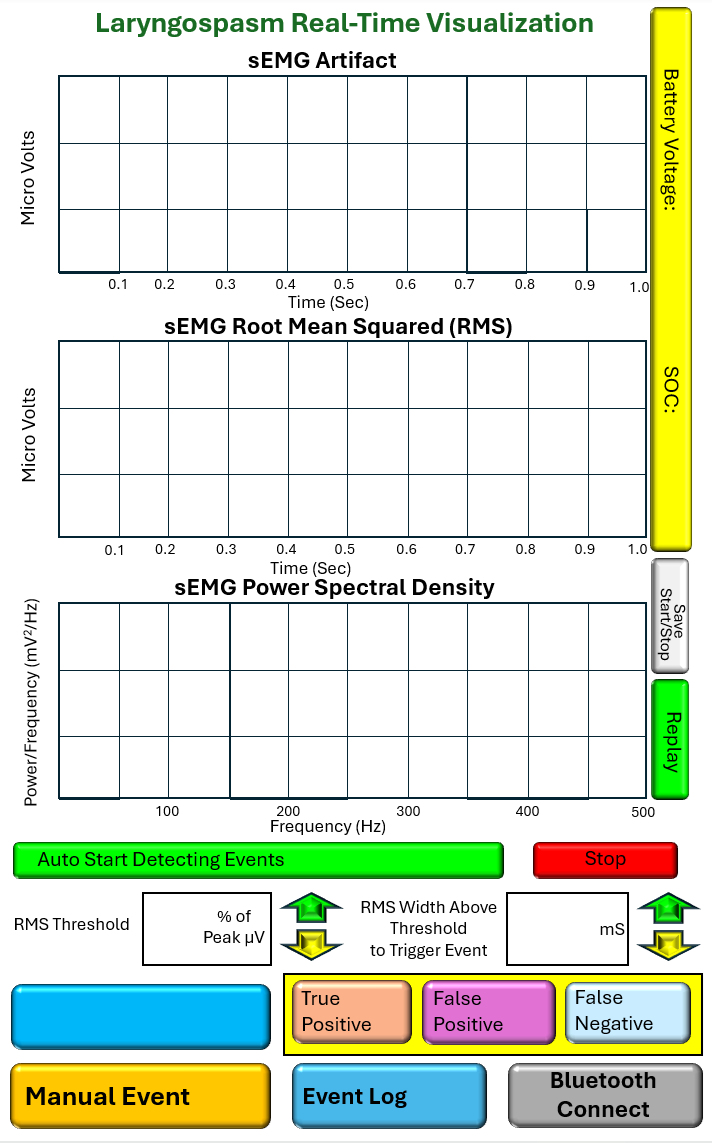
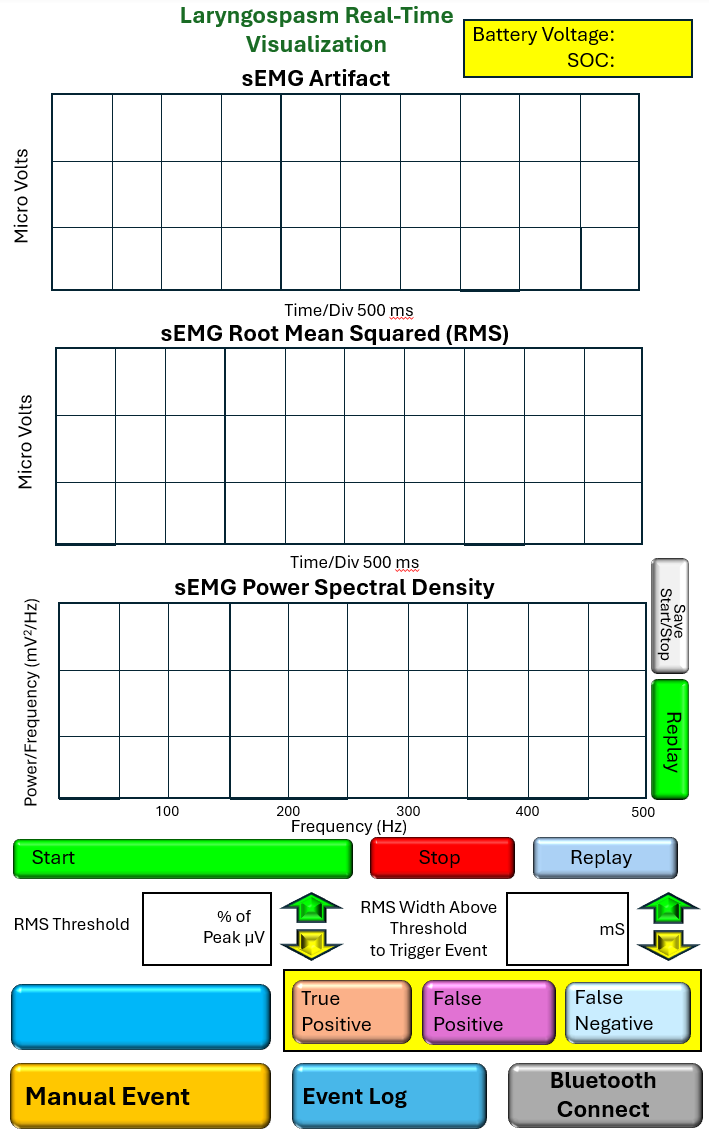
Reorganized GUI. Working On Start/Stop Buttons.

diff --git a/app/src/main/java/com/esark/gasp/GameScreen.java b/app/src/main/java/com/esark/gasp/GameScreen.java
@@ -104,6 +104,7 @@ public class GameScreen extends Screen implements Input {
     private static List<Double> replayList = new ArrayList<>();
     private static int replayPosition = 0;
     private String fileName = "sEMG_Data.csv";
+    private String fileNameLoop = "sEMG_data_loop.csv";
     // signalBufferLen is 1435.// We draw (1435 - 1) line segments. Each segment needs 4 floats (x1, y1, x2, y2).
     private final float[] lineBuffer = new float[(signalBufferLen - 1) * 4];
     // Initialize the Paint object
@@ -177,17 +178,70 @@ public class GameScreen extends Screen implements Input {
         for (int i = 0; i < len; i++) {
             TouchEvent event = touchEvents.get(i);
             if (event.type == TouchEvent.TOUCH_DRAGGED || event.type == TouchEvent.TOUCH_DOWN) {
-                if (event.x > 1245 && event.x < 1715 && event.y > 2610 && event.y < 2710) {
-                    //Back to Bluetooth Connect Screen
+                if (event.x > 1245 && event.x < 1715 && event.y > 2535 && event.y < 2735) {
+                    //Back to Bluetooth Connect Screen      //Bluetooth Connect
                     Intent intent2 = new Intent(context.getApplicationContext(), GaspSemg.class);
                     context.startActivity(intent2);
                     return;
                 }
-                //Start Recording Buttono
+                //////////////////// Start Recording Buttono (Green Button) ////////////////////////////////////////////////
                 else if (event.x > 45 && event.x < 1240 && event.y > 1240 && event.y < 2100) {
                     //Start
                     startTimeMillis = System.currentTimeMillis();
                     startRecording = 1;
+
+                    if (!isRecording) {
+                        // --- START ---
+                        synchronized (ramRecordBuffer) {
+                            // Reset the index pointer to start recording at the beginning of the array
+                            ramRecordBufferIdx = 0;
+                        }
+                        isRecording = true;
+                        isReplaying = false;
+                        Log.d("RECORD", "Recording Started");
+                    }
+                }
+                else if (event.x > 910 && event.x < 1265 && event.y > 2000 && event.y < 2100) {
+                    //Stop Recording (Red Button)
+                    //game.setScreen(gameScreenLastEvent);
+                    // eventCount = 0;
+                    // --- STOP ---
+                    startRecording = 0;
+                    isRecording = false; // Stop adding to RAM immediately
+
+                    // Launch the Save Thread
+                    // Inside GameScreen.java Stop logic
+                    new Thread(() -> {
+                        try {
+                            File path = context.getExternalFilesDir(null);
+                            File file = new File(path, fileNameLoop);
+                            PrintWriter pw = new PrintWriter(new BufferedWriter(new OutputStreamWriter(new FileOutputStream(file, false)), 65536));
+
+                            synchronized (ramRecordBuffer) {
+                                for (int k = 0; k < ramRecordBufferIdx; k++) {
+                                    pw.println(ramRecordBuffer[k]);
+                                }
+                                ramRecordBufferIdx = 0; // Reset for next recording
+                            }
+                            pw.flush();
+                            pw.close();
+                        } catch (IOException e) {
+                            e.printStackTrace();
+                        }
+                    }).start();
+                }  /////////////////////// Replay Recording (Blue Button) ///////////////////////////////////////////)///////////////////////////////////////////
+                else if (event.x > 1310 && event.x < 1665 && event.y > 2000 && event.y < 2100) {
+                    if (!isReplaying) {
+                        loadReplayDataLoop(context);
+                        if (!replayList.isEmpty()) {
+                            // Start at 0 to see the wave emerge from the right side
+                            replayPosition = 0;
+                            isReplaying = true;
+                            isRecording = false;
+                        }
+                    } else {
+                        isReplaying = false;
+                    }
                 }
                 //////////////////// Left Up Button ////////////////////////////////////////////////
                 else if (event.x > 685 && event.x < 840 && event.y > 2110 && event.y < 2215) {
@@ -228,11 +282,8 @@ public class GameScreen extends Screen implements Input {
                 } else if (event.x > 720 && event.x < 1190 && event.y > 2600 && event.y < 2700) {
                     //Event Log Screen
                     game.setScreen(gameScreenEventLog);
-                } else if (event.x > 1315 && event.x < 1660 && event.y > 2000 && event.y < 2100) {
-                    //Stop Now clear events
-                    //game.setScreen(gameScreenLastEvent);
-                    eventCount = 0;
-                } else if (event.x > 10 && event.x < 675 && event.y > 2450 && event.y < 2800) {
+                }
+                else if (event.x > 10 && event.x < 675 && event.y > 2450 && event.y < 2800) {
                     //Manual Patient Event
                     if (manualPatientEventUpCount == 0 && eventCount < 50) {
                         // Fast array copy instead of loop
@@ -329,32 +380,8 @@ public class GameScreen extends Screen implements Input {
 
         //   if(landscape == 0) {
 
-        /*
-        g.drawRect(1245, 2610, 470, 100, 0);       //Bluetooth Connect
-        g.drawRect(45, 2000, 1195, 100, 0);       //Start
-        g.drawRect(1315, 2000, 345, 100, 0);       //Stop
-      //  g.drawRect(350, 2185, 250, 85, 0);       //Manual RMS Height Above Threshold Text
-        g.drawText("50", 395, 2235);    //Manual RMS Height Above Threshold Text
-       // g.drawRect(350, 2380, 250, 85, 0);       //Auto RMS Height Threshold Text
-        g.drawText("50", 395, 2445);        //Auto RMS Height Threshold Text
-        g.drawRect(685, 2110, 155, 105, 0);       //Left Up Button
-        g.drawRect(685, 2220, 155, 105, 0);       //Left Down Button
-     //   g.drawRect(1240, 2180, 250, 85, 0);       //Manual RMS Width Above Threshold Text
-        g.drawText("50", 1330, 2235);       //Manual RMS Width Above Threshold Text
-        g.drawRect(1560, 2110, 155, 105, 0);       //Right Up Button
-        g.drawRect(1560, 2220, 155, 105, 0);       //Right Down Button
-        g.drawRect(720, 2600, 470, 100, 0);       //Event Log
-        g.drawRect(25, 2580, 650, 200, 0);       //Manual Patient Event
 
-     //   g.drawRect(725, 2400, 285, 150, 0);       //True Positive
-        g.drawText("50", 880, 2480);    //True Positive Text
-     //   g.drawRect(1055, 2400, 285, 150, 0);       //False Positive
-        g.drawText("50", 1235, 2480);       //False Positive Text
-     //   g.drawRect(1400, 2400, 285, 150, 0);       //False Negative
-        g.drawText("50", 1560, 2480);       //False Negative Text
-*/
-        //   g.drawRect(1600, 1330, 100, 270, 0);       //Start/Stop Save a Sample
-        //  g.drawRect(1600, 1610, 100, 310, 0);       //Replay
+
 
 
 
@@ -386,6 +413,35 @@ public class GameScreen extends Screen implements Input {
         Canvas canvas = ((AndroidGraphics) g).getCanvas();
         g.drawPortraitPixmap(Assets.laryngospasmBackgroundMain, 0, 0);
 
+//        g.drawRect(1245, 2535, 470, 200, 0);       //Bluetooth Connect
+  //      g.drawRect(45, 2000, 800, 100, 0);       //Start
+    //    g.drawRect(910, 2000, 355, 100, 0);       //Stop
+      //  g.drawRect(1310, 2000, 355, 100, 0);       //Replay (Blue Button)
+      //  g.drawRect(350, 2185, 250, 85, 0);       //Manual RMS Height Above Threshold Text
+   //     g.drawText("50", 395, 2235);    //Manual RMS Height Above Threshold Text
+       // g.drawRect(350, 2380, 250, 85, 0);       //Auto RMS Height Threshold Text
+     //   g.drawText("50", 395, 2445);        //Auto RMS Height Threshold Text
+    //    g.drawRect(685, 2110, 155, 105, 0);       //Left Up Button
+      //  g.drawRect(685, 2220, 155, 105, 0);       //Left Down Button
+     //   g.drawRect(1240, 2180, 250, 85, 0);       //Manual RMS Width Above Threshold Text
+      //  g.drawText("50", 1330, 2235);       //Manual RMS Width Above Threshold Text
+      //  g.drawRect(1560, 2110, 155, 105, 0);       //Right Up Button
+      //  g.drawRect(1560, 2220, 155, 105, 0);       //Right Down Button
+   //     g.drawRect(720, 2535, 470, 200, 0);       //Event Log
+     //   g.drawRect(25, 2535, 650, 200, 0);       //Manual Patient Event
+
+     //   g.drawRect(725, 2400, 285, 150, 0);       //True Positive
+      //  g.drawText("50", 880, 2480);    //True Positive Text
+     //   g.drawRect(1055, 2400, 285, 150, 0);       //False Positive
+      //  g.drawText("50", 1235, 2480);       //False Positive Text
+     //   g.drawRect(1400, 2400, 285, 150, 0);       //False Negative
+      //  g.drawText("50", 1560, 2480);       //False Negative Text
+
+        //   g.drawRect(1600, 1330, 100, 270, 0);       //Start/Stop Save a Sample
+        //  g.drawRect(1600, 1610, 100, 310, 0);       //Replay
+
+
+
         String eventCountStr = String.valueOf(eventCount);
         g.drawText(eventCountStr, 570, 2660);
         ////////////////// Start / Stop Recording //////////////////////////////////////////
@@ -395,7 +451,7 @@ public class GameScreen extends Screen implements Input {
             seconds = 0;
             remainingMilliseconds = 0;
             String formattedTime = String.format("%02d:%02d:%03d", minutes, seconds, remainingMilliseconds);
-            g.drawText(formattedTime, 840, 2070);
+            g.drawText(formattedTime, 245, 2070);
         } else if (startRecording == 1) {
             currentTimeMillis = System.currentTimeMillis();
             recDeltaTimeMillis = (int) (currentTimeMillis - startTimeMillis);
@@ -403,7 +459,7 @@ public class GameScreen extends Screen implements Input {
             seconds = (int) recDeltaTimeMillis / 1000;
             remainingMilliseconds = (int) recDeltaTimeMillis % 1000;
             String formattedTime = String.format("%02d:%02d:%03d", minutes, seconds, remainingMilliseconds);
-            g.drawText(formattedTime, 840, 2070);
+            g.drawText(formattedTime, 245, 2070);
         }
 
         // --- LIVE RMS & PSD (Only shows when NOT replaying) ---
@@ -546,6 +602,29 @@ public class GameScreen extends Screen implements Input {
             //////////////////////////////////////////////////////////////////////////
 
     /////////////// LoadReplayData Helper Method ///////////////////////////////////////////////////
+    private void loadReplayDataLoop(Context context) {
+        replayList.clear();
+        replayPosition = 0;
+        try {
+            File path = context.getExternalFilesDir(null);
+            File file = new File(path, fileNameLoop);
+            BufferedReader br = new BufferedReader(new FileReader(file));
+            String line;
+            while ((line = br.readLine()) != null) {
+                // Ensure we don't add empty lines
+                if (!line.trim().isEmpty()) {
+                    replayList.add(Double.parseDouble(line));
+                }
+            }
+            br.close();
+            if (!replayList.isEmpty()) {
+                isReplaying = true;
+                isRecording = false;
+            }
+        } catch (IOException | NumberFormatException e) {
+            e.printStackTrace();
+        }
+    }
     private void loadReplayData(Context context) {
         replayList.clear();
         replayPosition = 0;
